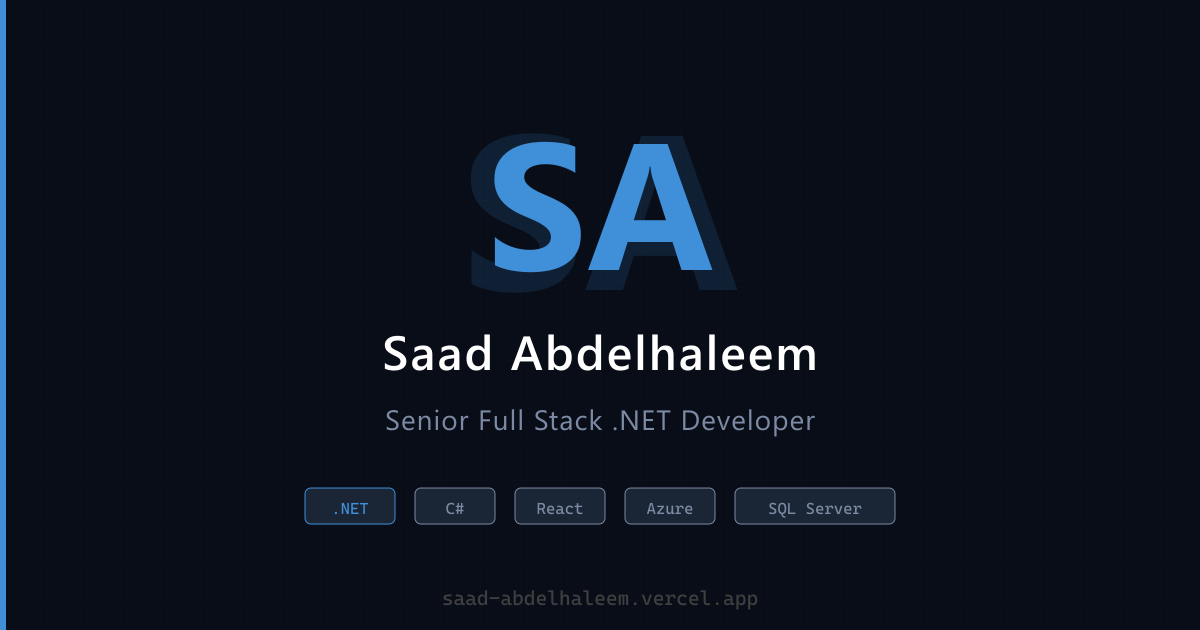
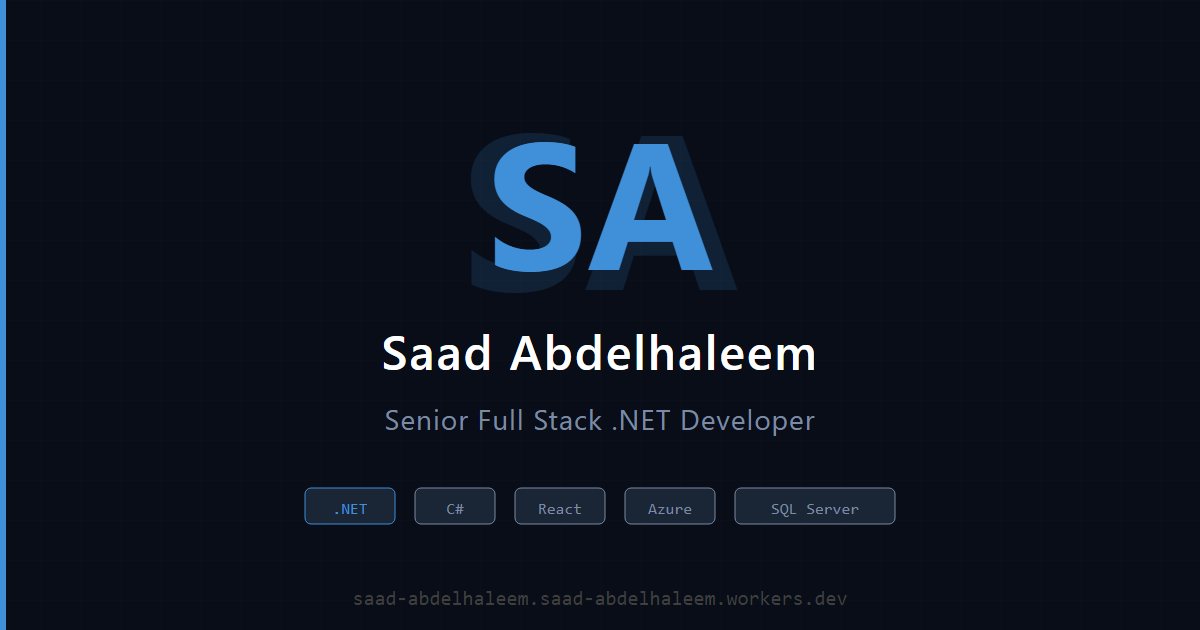
change the work to meet cloudflare

diff --git a/index.html b/index.html
@@ -9,7 +9,7 @@
   <meta name="author" content="Saad Abdelhaleem">
   <meta name="robots" content="index, follow">
   <meta name="theme-color" content="#0a0611">
-  <link rel="canonical" href="https://saad-abdelhaleem.vercel.app/">
+  <link rel="canonical" href="https://saad-abdelhaleem.saad-abdelhaleem.workers.dev/">
   <link rel="icon" type="image/x-icon" href="/favicon.ico">
   <link rel="icon" type="image/png" sizes="32x32" href="/assets/favicon/favicon-32x32.png">
   <link rel="icon" type="image/png" sizes="16x16" href="/assets/favicon/favicon-16x16.png">
@@ -18,22 +18,22 @@
 
   <!-- Open Graph -->
   <meta property="og:type" content="website">
-  <meta property="og:url" content="https://saad-abdelhaleem.vercel.app/">
+  <meta property="og:url" content="https://saad-abdelhaleem.saad-abdelhaleem.workers.dev/">
   <meta property="og:title" content="Saad Abdelhaleem | Senior Full Stack .NET Developer">
   <meta property="og:description" content="Senior Full Stack .NET Developer specializing in ASP.NET Core, C#, React, and cloud architecture. Building scalable enterprise solutions.">
   <meta property="og:site_name" content="Saad Abdelhaleem Portfolio">
   <meta property="og:locale" content="en_US">
-  <meta property="og:image" content="https://saad-abdelhaleem.vercel.app/assets/images/og-image.png">
+  <meta property="og:image" content="https://saad-abdelhaleem.saad-abdelhaleem.workers.dev/assets/images/og-image.png">
   <meta property="og:image:width" content="1200">
   <meta property="og:image:height" content="630">
   <meta property="og:image:alt" content="Saad Abdelhaleem - Senior Full Stack .NET Developer">
 
   <!-- Twitter Card -->
   <meta name="twitter:card" content="summary_large_image">
-  <meta name="twitter:url" content="https://saad-abdelhaleem.vercel.app/">
+  <meta name="twitter:url" content="https://saad-abdelhaleem.saad-abdelhaleem.workers.dev/">
   <meta name="twitter:title" content="Saad Abdelhaleem | Senior Full Stack .NET Developer">
   <meta name="twitter:description" content="Senior Full Stack .NET Developer specializing in ASP.NET Core, C#, React, and cloud architecture.">
-  <meta name="twitter:image" content="https://saad-abdelhaleem.vercel.app/assets/images/og-image.png">
+  <meta name="twitter:image" content="https://saad-abdelhaleem.saad-abdelhaleem.workers.dev/assets/images/og-image.png">
   <meta name="twitter:image:alt" content="Saad Abdelhaleem - Senior Full Stack .NET Developer">
 
   <!-- JSON-LD Structured Data -->
@@ -43,7 +43,7 @@
     "@type": "Person",
     "name": "Saad Abdelhaleem",
     "jobTitle": "Senior Full Stack .NET Developer",
-    "url": "https://saad-abdelhaleem.vercel.app/",
+    "url": "https://saad-abdelhaleem.saad-abdelhaleem.workers.dev/",
     "email": "saad.abdelhaleem@gmail.com",
     "sameAs": ["https://github.com/saad-abdelhaleem", "https://www.linkedin.com/in/saad-abdelhaleem/"],
     "knowsAbout": [".NET", "ASP.NET Core", "C#", "React", "Azure", "SQL Server", "Full Stack Development", "Software Architecture", "RESTful APIs"]
@@ -326,7 +326,7 @@ class Component extends DCLogic {
   ];
 
   liveLinks = [
-    { name:'Backend Knowledge Map', kind:'Learning site', url:'https://full-stack-knowledge-map.vercel.app/', host:'full-stack-knowledge-map.vercel.app', desc:'Bilingual, interactive crash course mapping the backend landscape — concepts, technologies and best practices.' },
+    { name:'Backend Knowledge Map', kind:'Learning site', url:'https://full-stack-knowledge-map.saad-abdelhaleem.workers.dev/', host:'full-stack-knowledge-map.saad-abdelhaleem.workers.dev', desc:'Bilingual, interactive crash course mapping the backend landscape — concepts, technologies and best practices.' },
     { name:'SoknaCost', kind:'SaaS', url:'https://soknacost.com/', host:'soknacost.com', desc:'Residential building expense management: monthly costs split across units by weight, owner dues, statements and maintenance requests.',
       nameAr:
         'سُكنة' },
